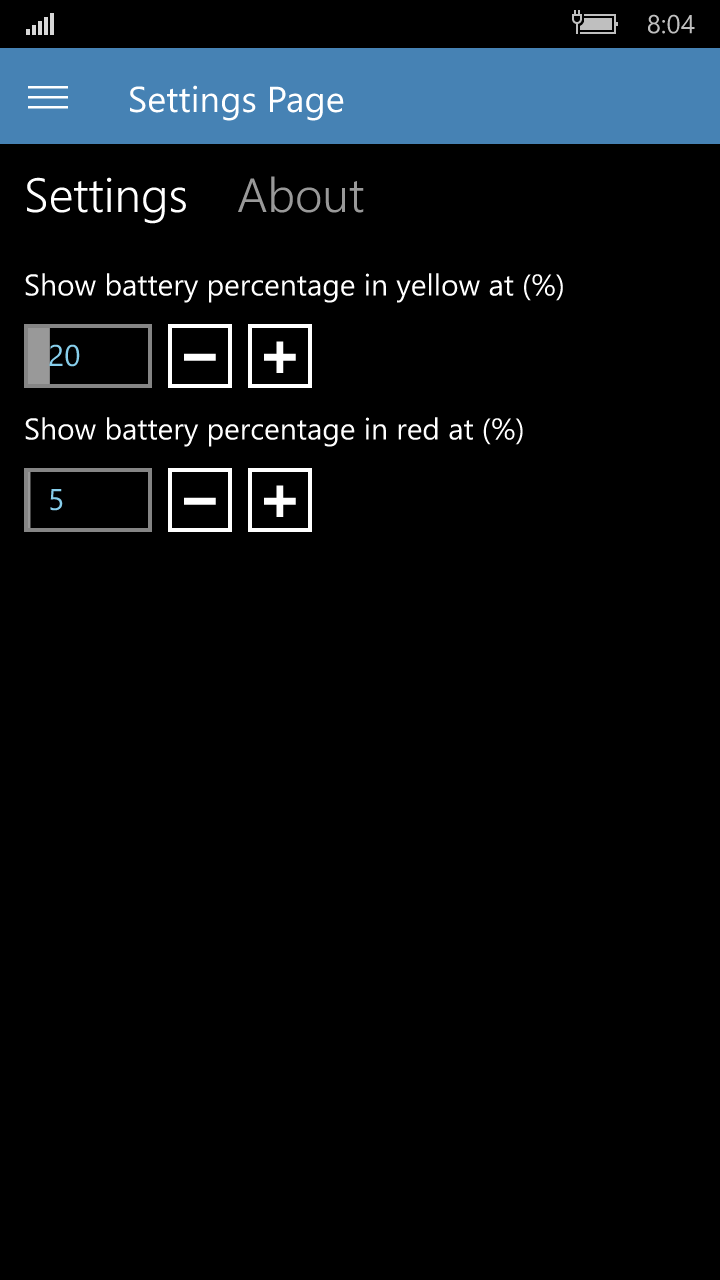
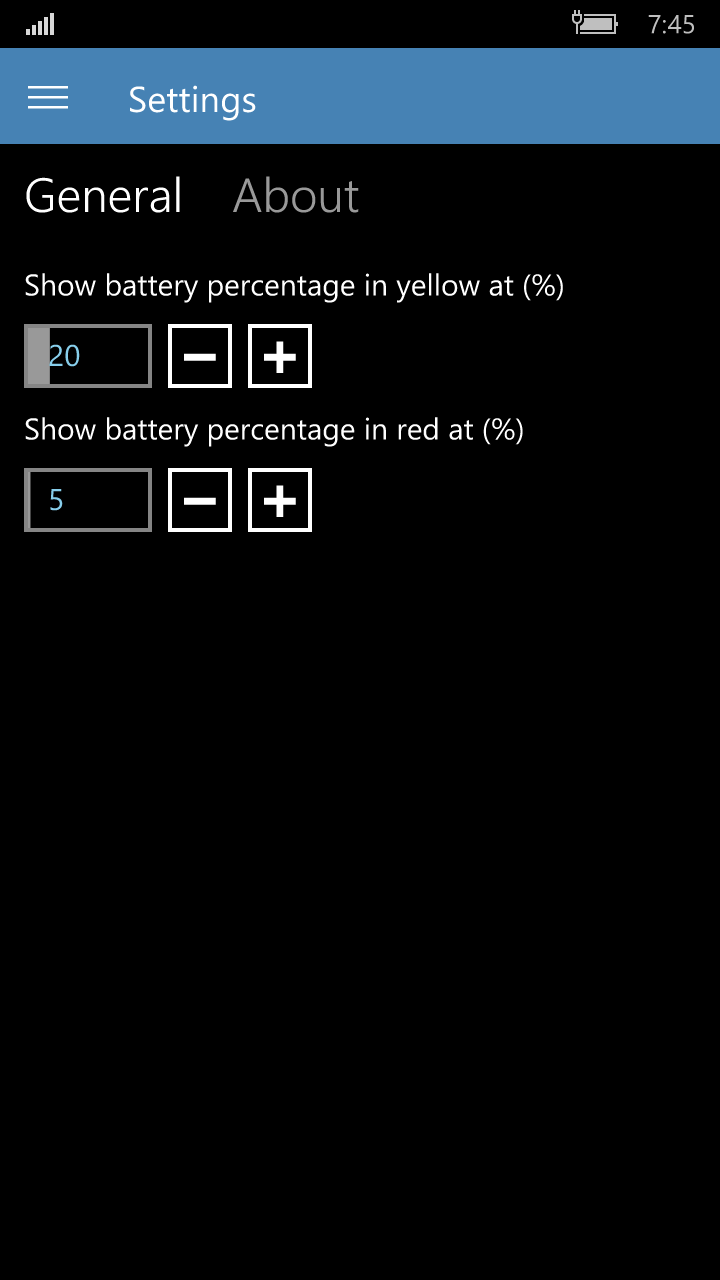
Store submission

diff --git a/Views/SettingsPage.xaml b/Views/SettingsPage.xaml
@@ -48,7 +48,7 @@
         </VisualStateManager.VisualStateGroups>
 
         <!--  header  -->
-        <controls:PageHeader x:Name="pageHeader" Content="Settings Page"
+        <controls:PageHeader x:Name="pageHeader" Content="Settings"
                              Frame="{x:Bind Frame}"
                              RelativePanel.AlignLeftWithPanel="True"
                              RelativePanel.AlignRightWithPanel="True"
@@ -62,7 +62,7 @@
                RelativePanel.Below="pageHeader">
 
             <!--  settings  -->
-            <PivotItem DataContext="{Binding SettingsPartViewModel}" Header="Settings">
+            <PivotItem DataContext="{Binding SettingsPartViewModel}" Header="General">
                 <ScrollViewer Margin="0,12,-12,0" HorizontalContentAlignment="Left"
                               VerticalScrollBarVisibility="Auto">
                     <RelativePanel HorizontalAlignment="Left">
